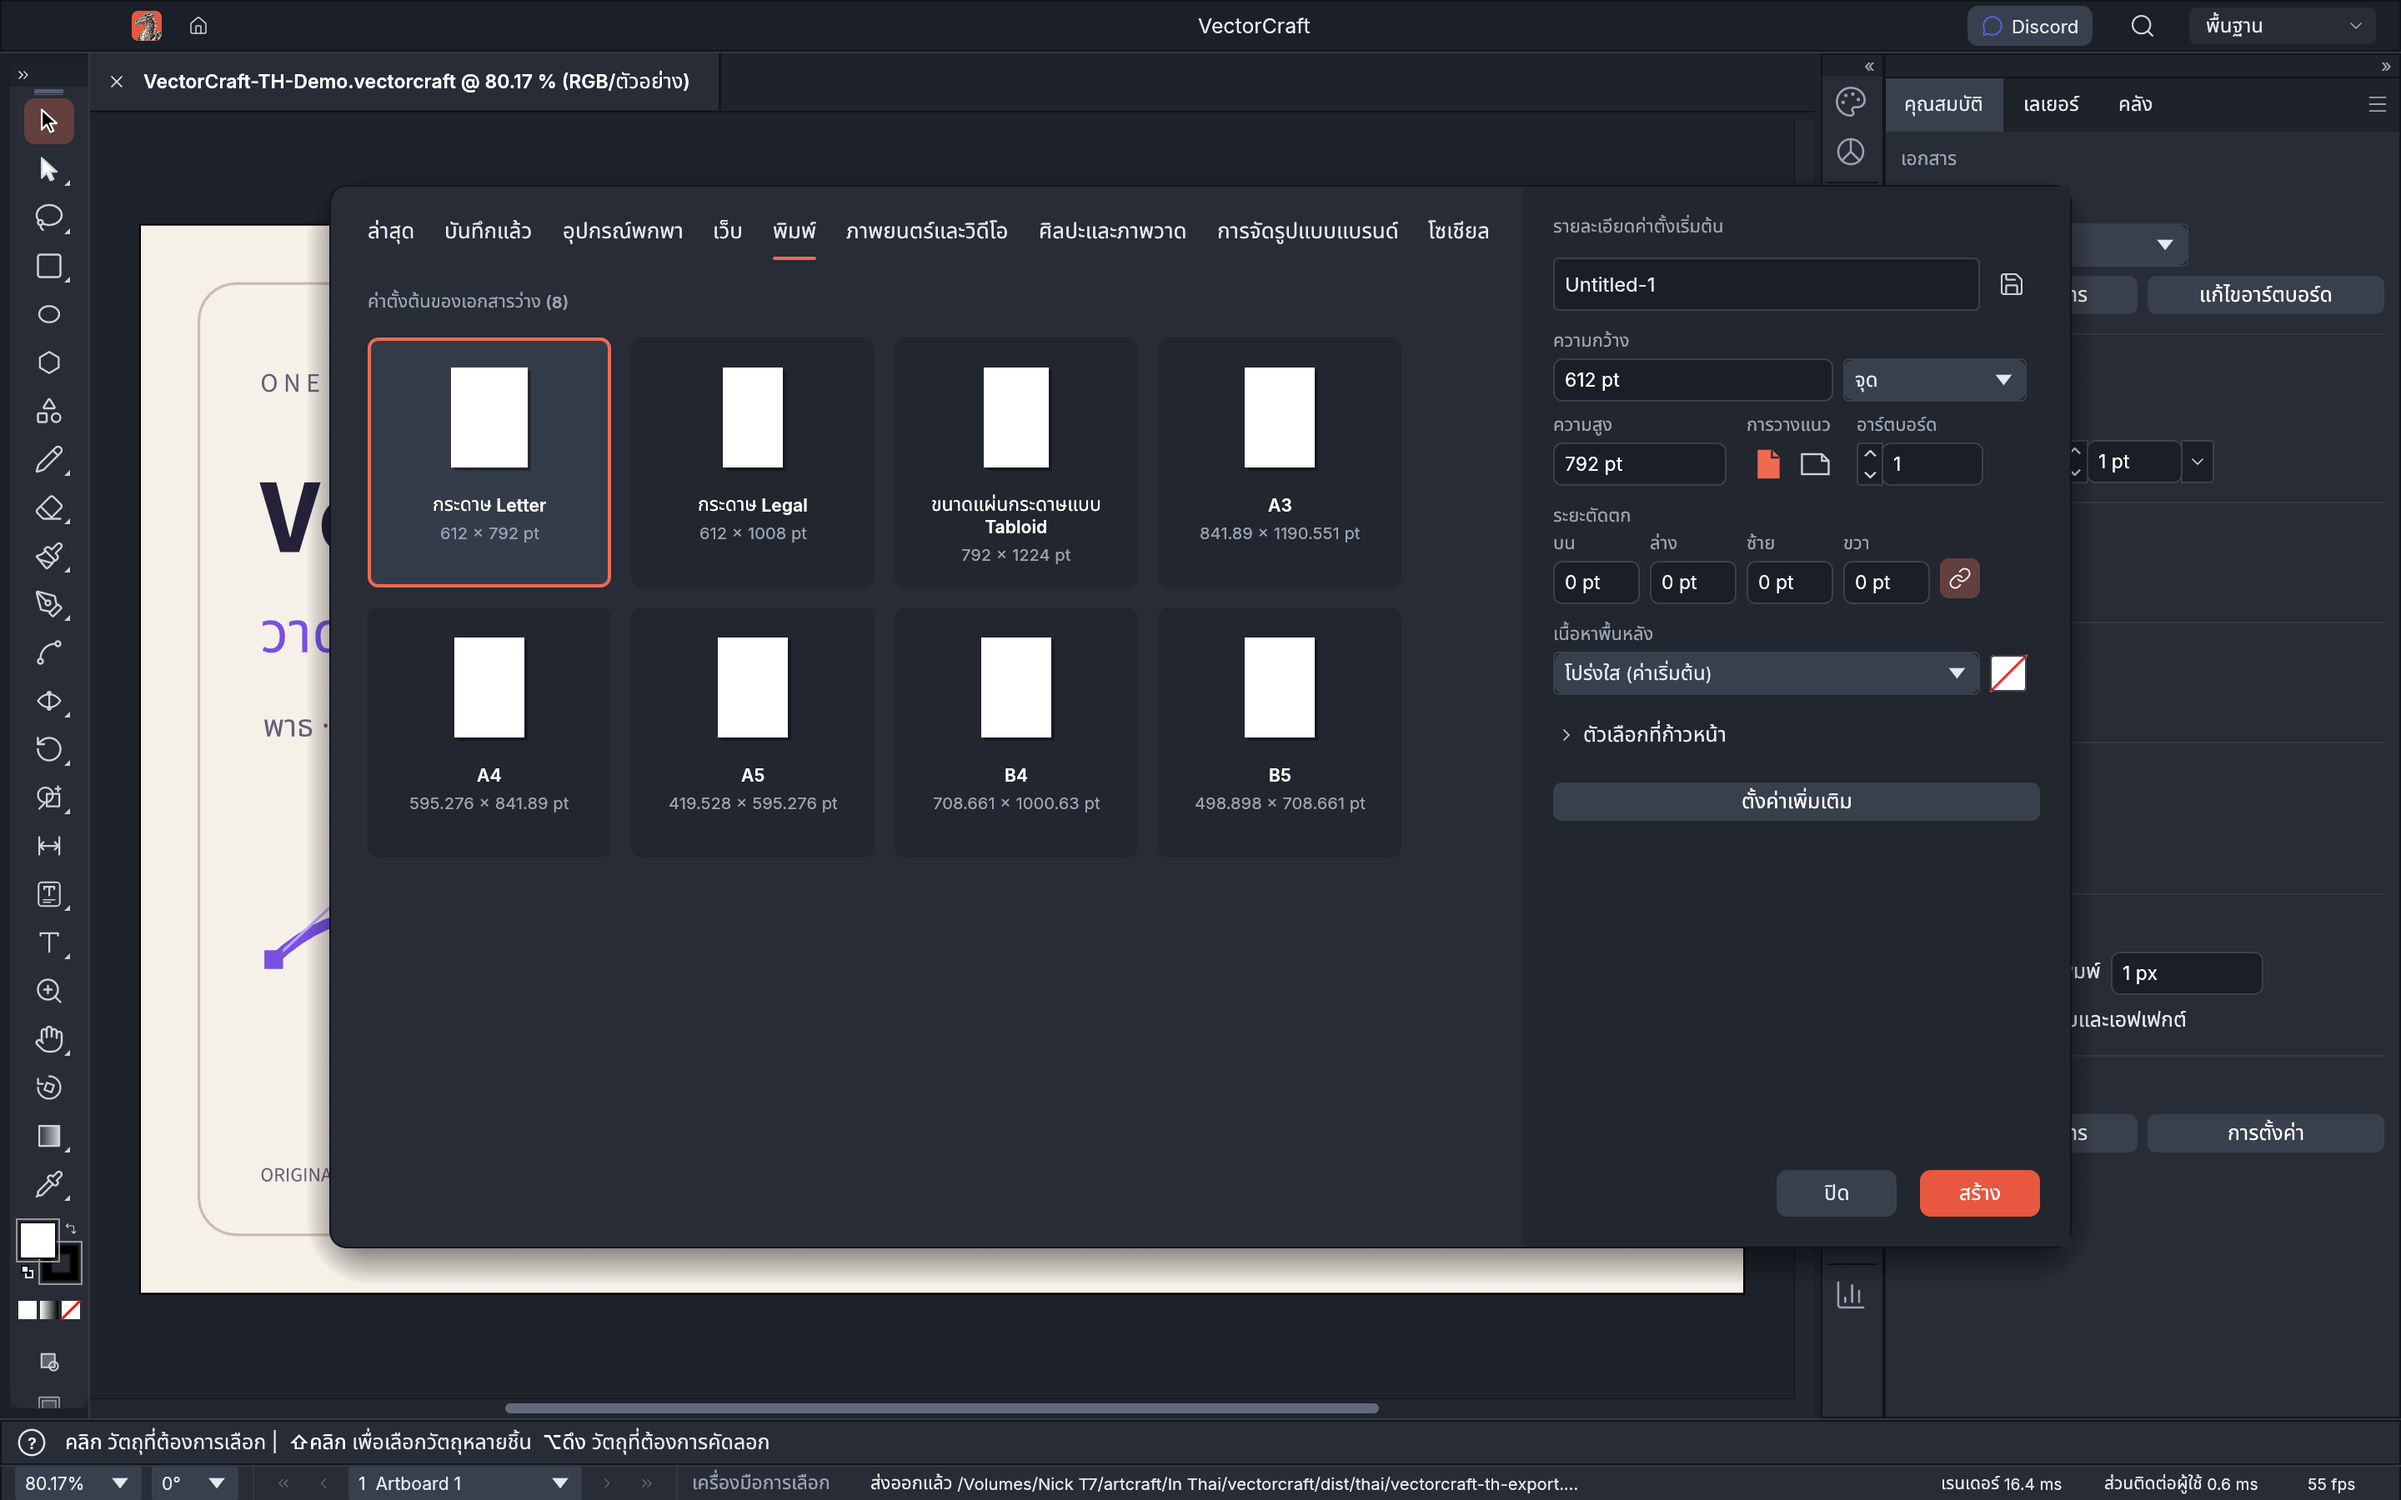
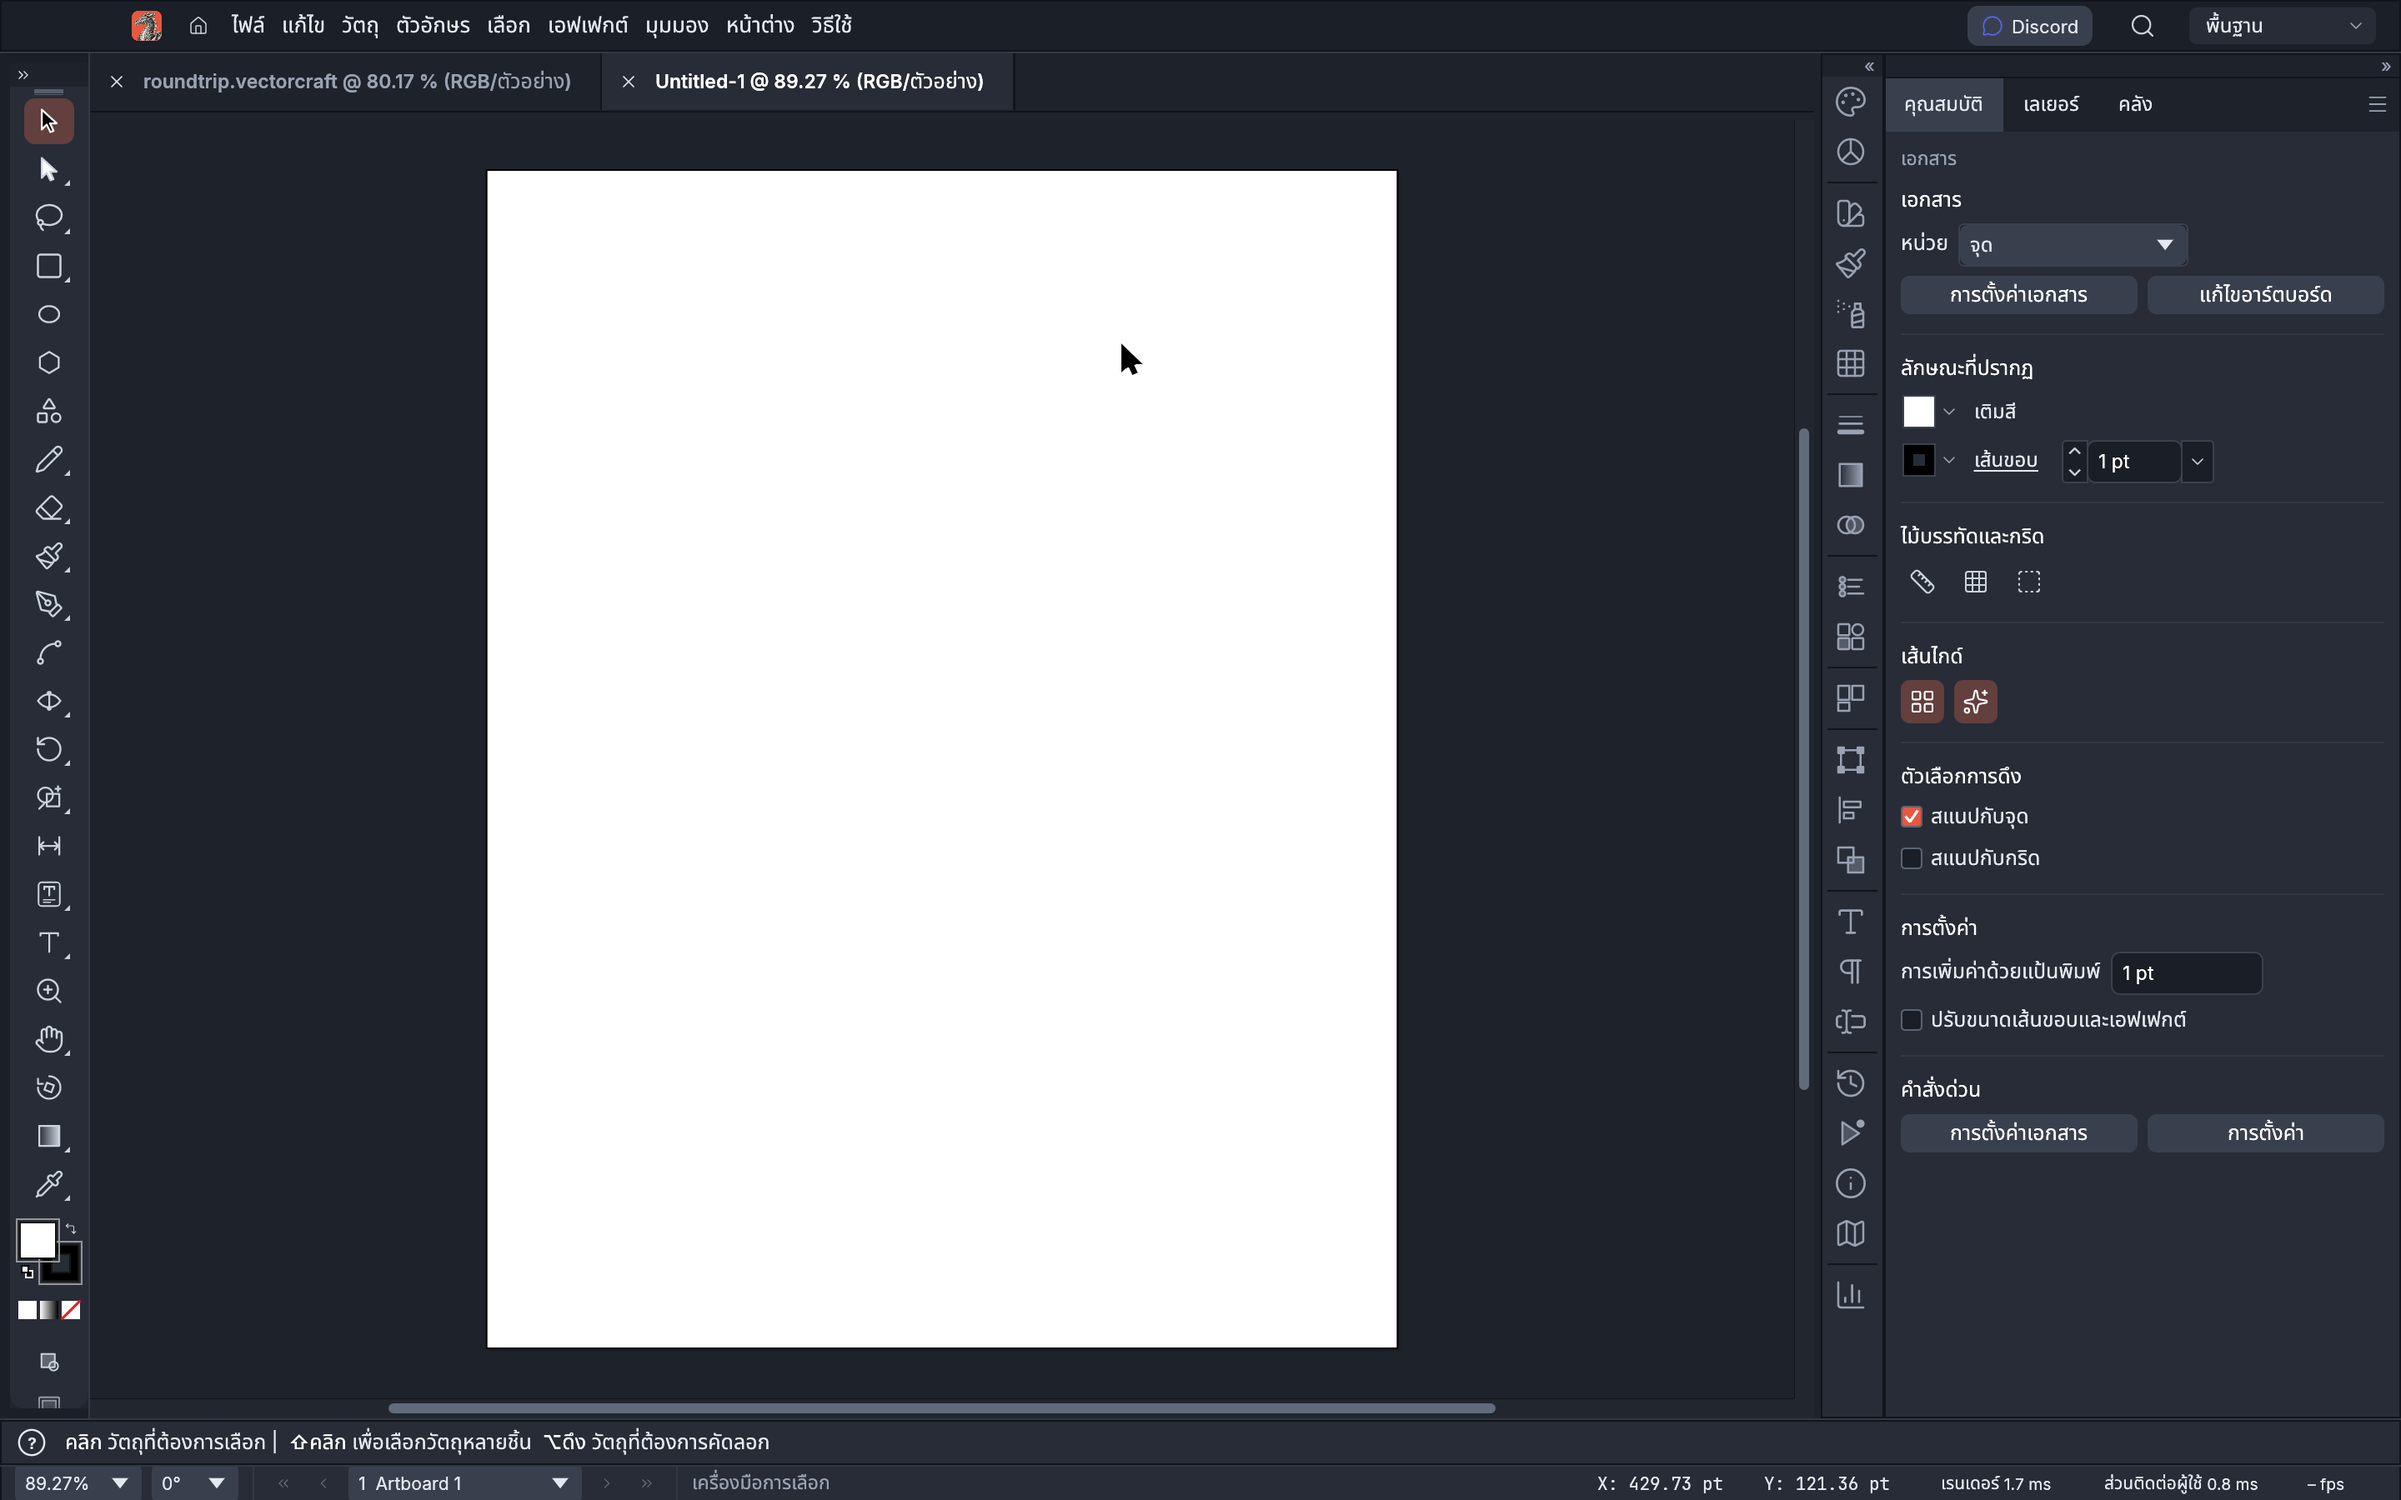
DOC5: verify the mounted Mac package and refresh actual app screenshots [skip ci]

diff --git a/README.md b/README.md
@@ -34,9 +34,9 @@
 
 ต้นฉบับยังเป็น **alpha** โดยเฉพาะการแลกเปลี่ยน `.ai` อาจไม่รักษารายละเอียดครบ รุ่นภาษาไทยไม่ได้เพิ่มความเทียบเท่ากับ Illustrator เก็บไฟล์ต้นฉบับก่อนทดลองใช้งาน อ่าน [ข้อจำกัดต้นฉบับ](docs/gaps.md)
 
-![หน้าต่างสร้างเอกสารใหม่ภาษาไทย / Thai New Document dialog](docs/images/th/vectorcraft-th-new-document.png)
+![เอกสารใหม่ใน VectorCraft ภาษาไทย / New document workspace](docs/images/th/vectorcraft-th-new-document.png)
 
-ระบบตรวจอัปเดตชี้ไปที่ `tapanapon-com/vectorcraft-th` เพื่อไม่ให้รุ่นต้นฉบับทับคำแปล ช่องทางตรวจอัปเดตอาจไม่เสนอ prerelease ให้ดาวน์โหลดรุ่นทดลองจาก Releases โดยตรง
+ระบบตรวจอัปเดตชี้ไปที่ `tapanapon-com/vectorcraft-th` เพื่อไม่ให้รุ่นต้นฉบับทับคำแปล ระบบอัปเดตต้นฉบับกรองรุ่น `-th.1` ออก จึงให้ดาวน์โหลดรุ่นไทยจาก Releases โดยตรง
 
 ## ติดตั้งบน Windows
 

diff --git a/docs/localization-th.md b/docs/localization-th.md
@@ -74,4 +74,8 @@ Update checks use `tapanapon-com/vectorcraft-th`, keeping upstream-only binaries
 
 ## ผลตรวจปัจจุบัน / Current source validation
 
-Mac UI library: 3,279 passed, zero failed or ignored. Formatting and workspace/all-target Clippy passed. Full workspace CI and platform packaging are pending; see [current validation](validation-0.22.0-th.1.json). Earlier 13,965-test results above remain historical.
+Complete shared CI passed all 12 stages:14,487 tests passed,15 skipped,0 failed. The compiled translation report has zero missing Thai/shared strings. Mac UI library:3,279 passed. See [full gate](https://github.com/tapanapon-com/vectorcraft-th/actions/runs/42376413663).
+
[1 lines of base64/hex data omitted]
+
+Windows x64 packaging is pending. Platform checks and exact source provenance are recorded in [current validation](validation-0.22.0-th.1.json). Earlier0.21.0 results above remain historical. Mac builds are ad-hoc signed and not Apple-notarized. Thai updates require manual downloads from this repository’s Releases.

diff --git a/ASSETS.md b/ASSETS.md
@@ -383,4 +383,4 @@ The shared PDF backend keeps the existing standard-font and CMap features. These
 |---|---|---|---|---|
 | `docs/images/th/vectorcraft-th-demo.svg` | Tapanapon Thai localization project | Original geometric artwork created for this repository | MIT OR Apache-2.0 | Synthetic editable vector demo; no external images or proprietary artwork |
 | `docs/images/th/vectorcraft-th-workspace.png` | Tapanapon Thai localization project; upstream VectorCraft UI contributors | Screenshot of this fork displaying its original demo | MIT OR Apache-2.0; upstream brand terms retained | Actual Thai macOS UI; no user documents or third-party artwork |
-| `docs/images/th/vectorcraft-th-new-document.png` | Tapanapon Thai localization project; upstream VectorCraft UI contributors | Screenshot of this fork | MIT OR Apache-2.0; upstream brand terms retained | Actual Thai New Document dialog |
+| `docs/images/th/vectorcraft-th-new-document.png` | Tapanapon Thai localization project; upstream VectorCraft UI contributors | Screenshot of this fork | MIT OR Apache-2.0; upstream brand terms retained | Actual Thai workspace after creating a new blank document |
